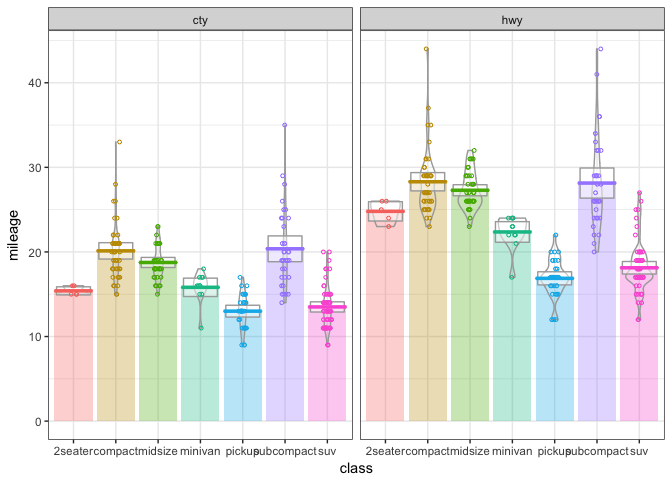
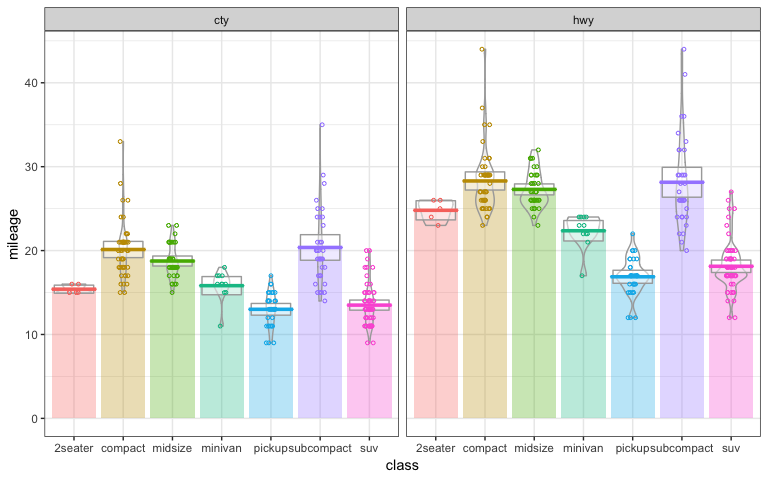
aesthetic mapping tweaks

diff --git a/README.md b/README.md
@@ -27,7 +27,7 @@ Colour pirate plot:
 
 ``` r
 ggplot(mpg, aes(x = class, y = cty)) +
-  geom_pirate(aes(colour = class))
+  geom_pirate(aes(colour = class, fill = class))
 ```
 
 ![](README-colour-1.png)
@@ -36,7 +36,8 @@ Each of the layers can be turned off, e.g. for just means and confidence interva
 
 ``` r
 ggplot(mpg, aes(x = class, y = cty)) +
-  geom_pirate(aes(colour = class), points = FALSE, bars = FALSE, violins = FALSE)
+  geom_pirate(aes(colour = class),
+              points = FALSE, bars = FALSE, violins = FALSE)
 ```
 
 ![](README-layers-1.png)
@@ -47,7 +48,7 @@ Colour can be mapped to a different variable than the x axis, resulting in dodge
 mpg2 <- dplyr::mutate(mpg, drv = factor(drv))
 
 ggplot(mpg2, aes(x = class, y = cty)) +
-  geom_pirate(aes(colour = drv), show.legend = TRUE)
+  geom_pirate(aes(colour = drv, fill = drv), show.legend = TRUE)
 ```
 
 ![](README-dodge-1.png)
@@ -59,7 +60,7 @@ mpg_gather <- tidyr::gather(mpg, type, mileage, cty, hwy)
 
 ggplot(mpg_gather, aes(x = class, y = mileage)) +
   facet_wrap(~type) +
-  geom_pirate(aes(colour = class))
+  geom_pirate(aes(colour = class, fill = class))
 ```
 
 ![](README-facets-1.png)
@@ -73,4 +74,4 @@ ggplot(mpg, aes(x = class, y = cty)) +
               lines_params = list(size = 0.8))
 ```
 
-![](README-unnamed-chunk-2-1.png)
+![](README-params-1.png)
